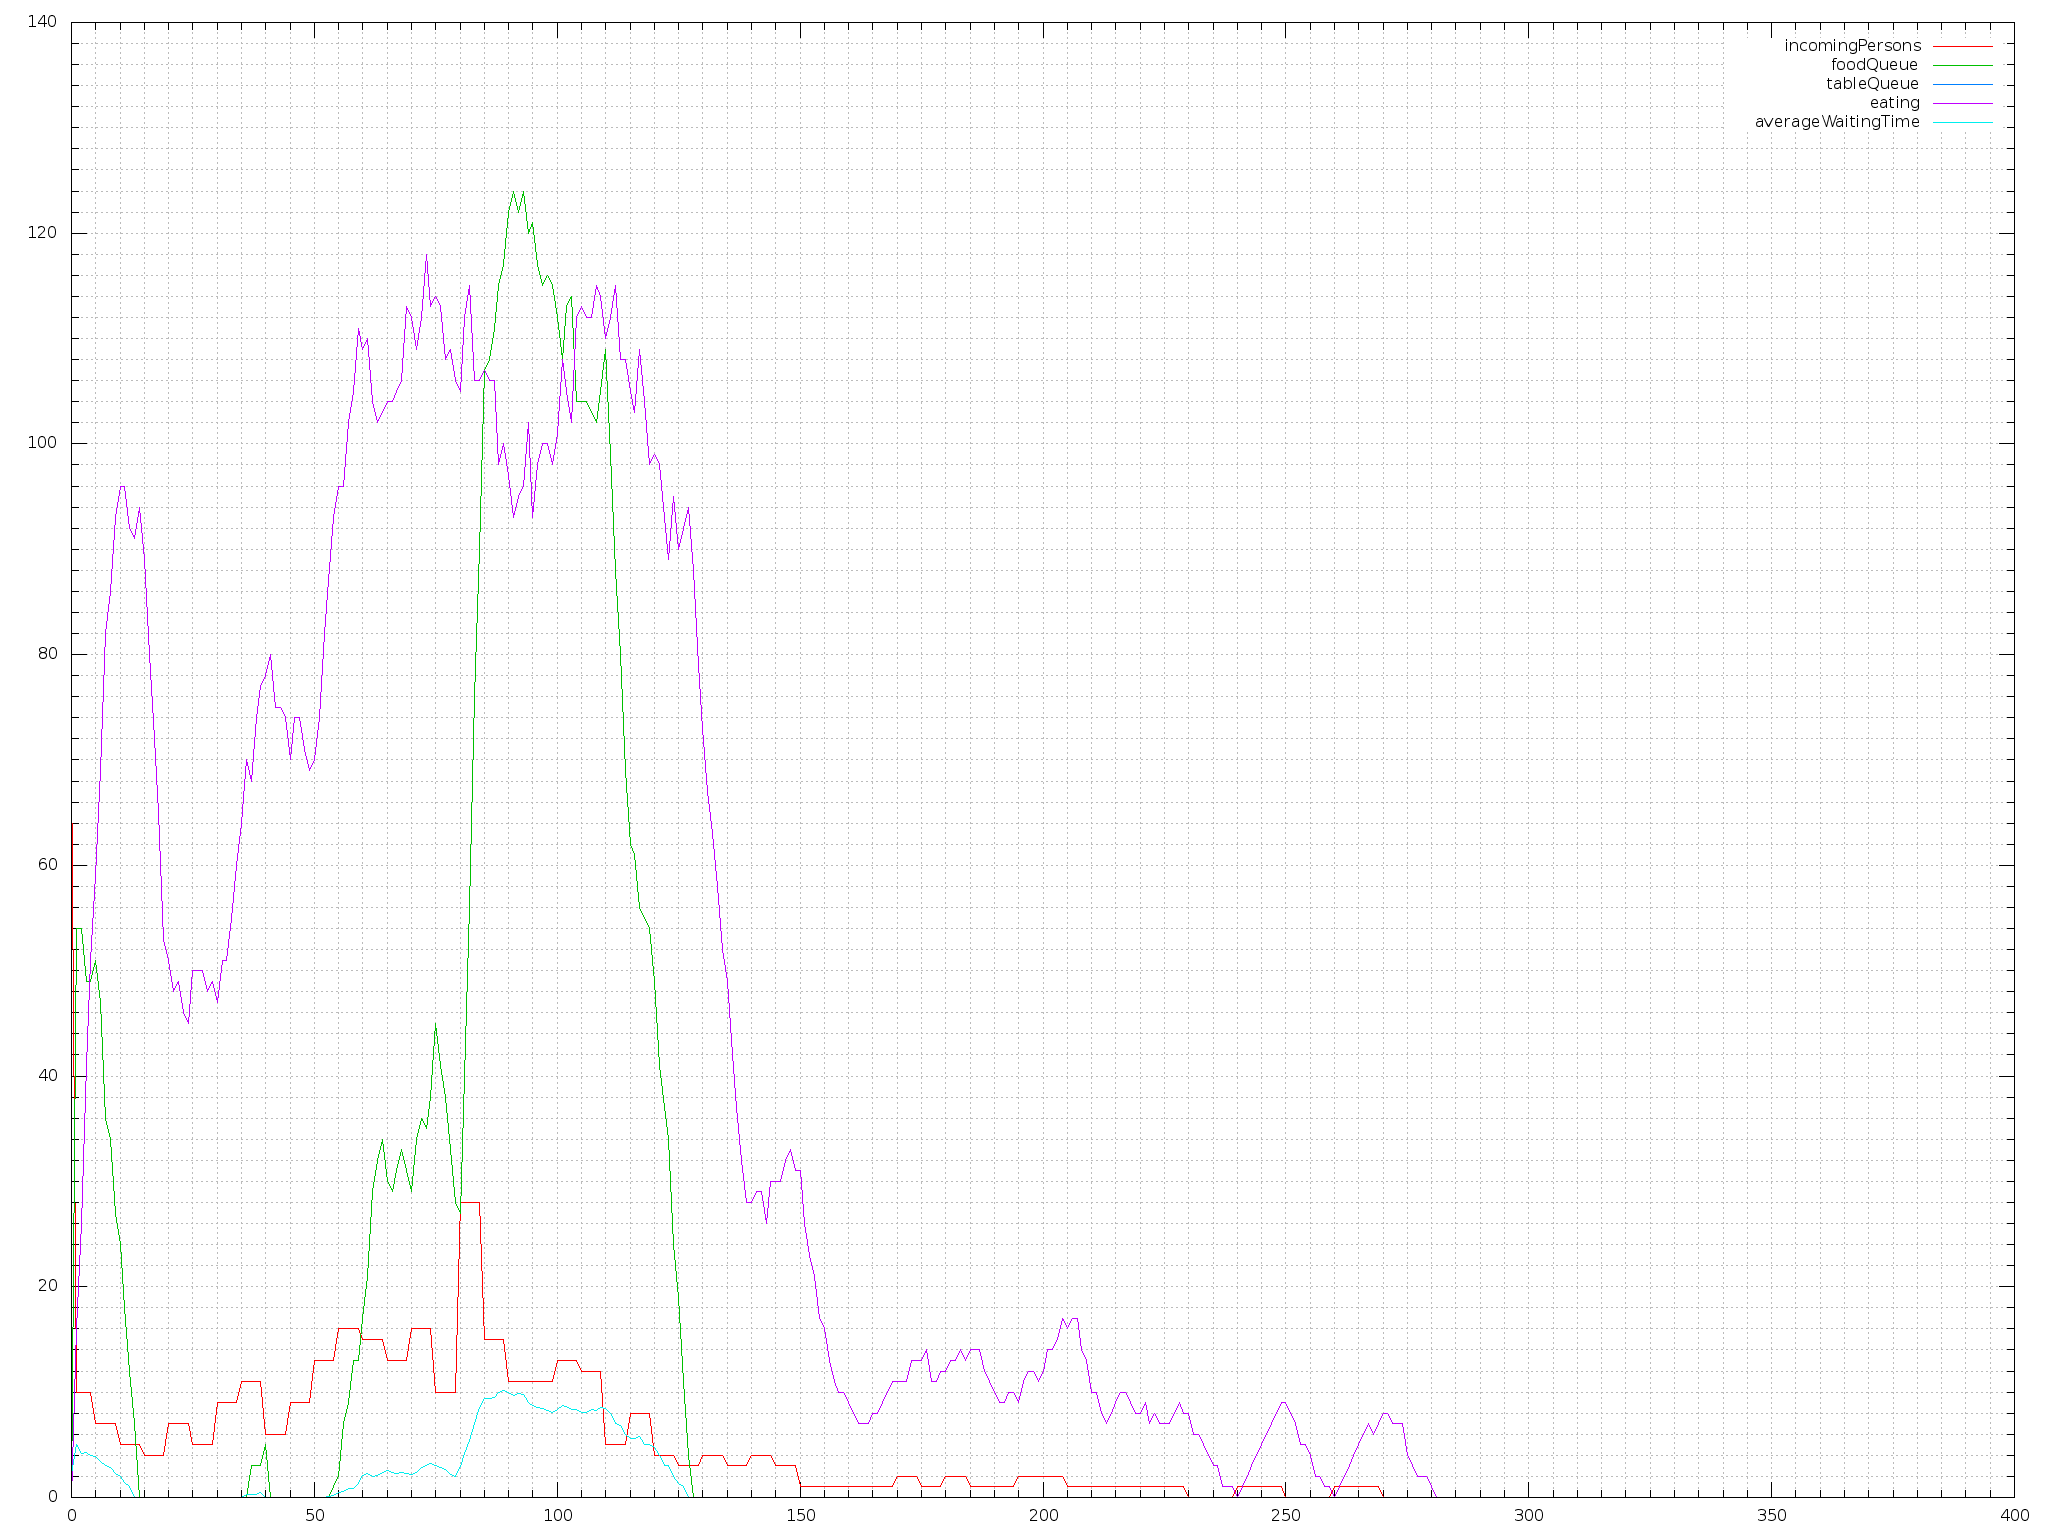
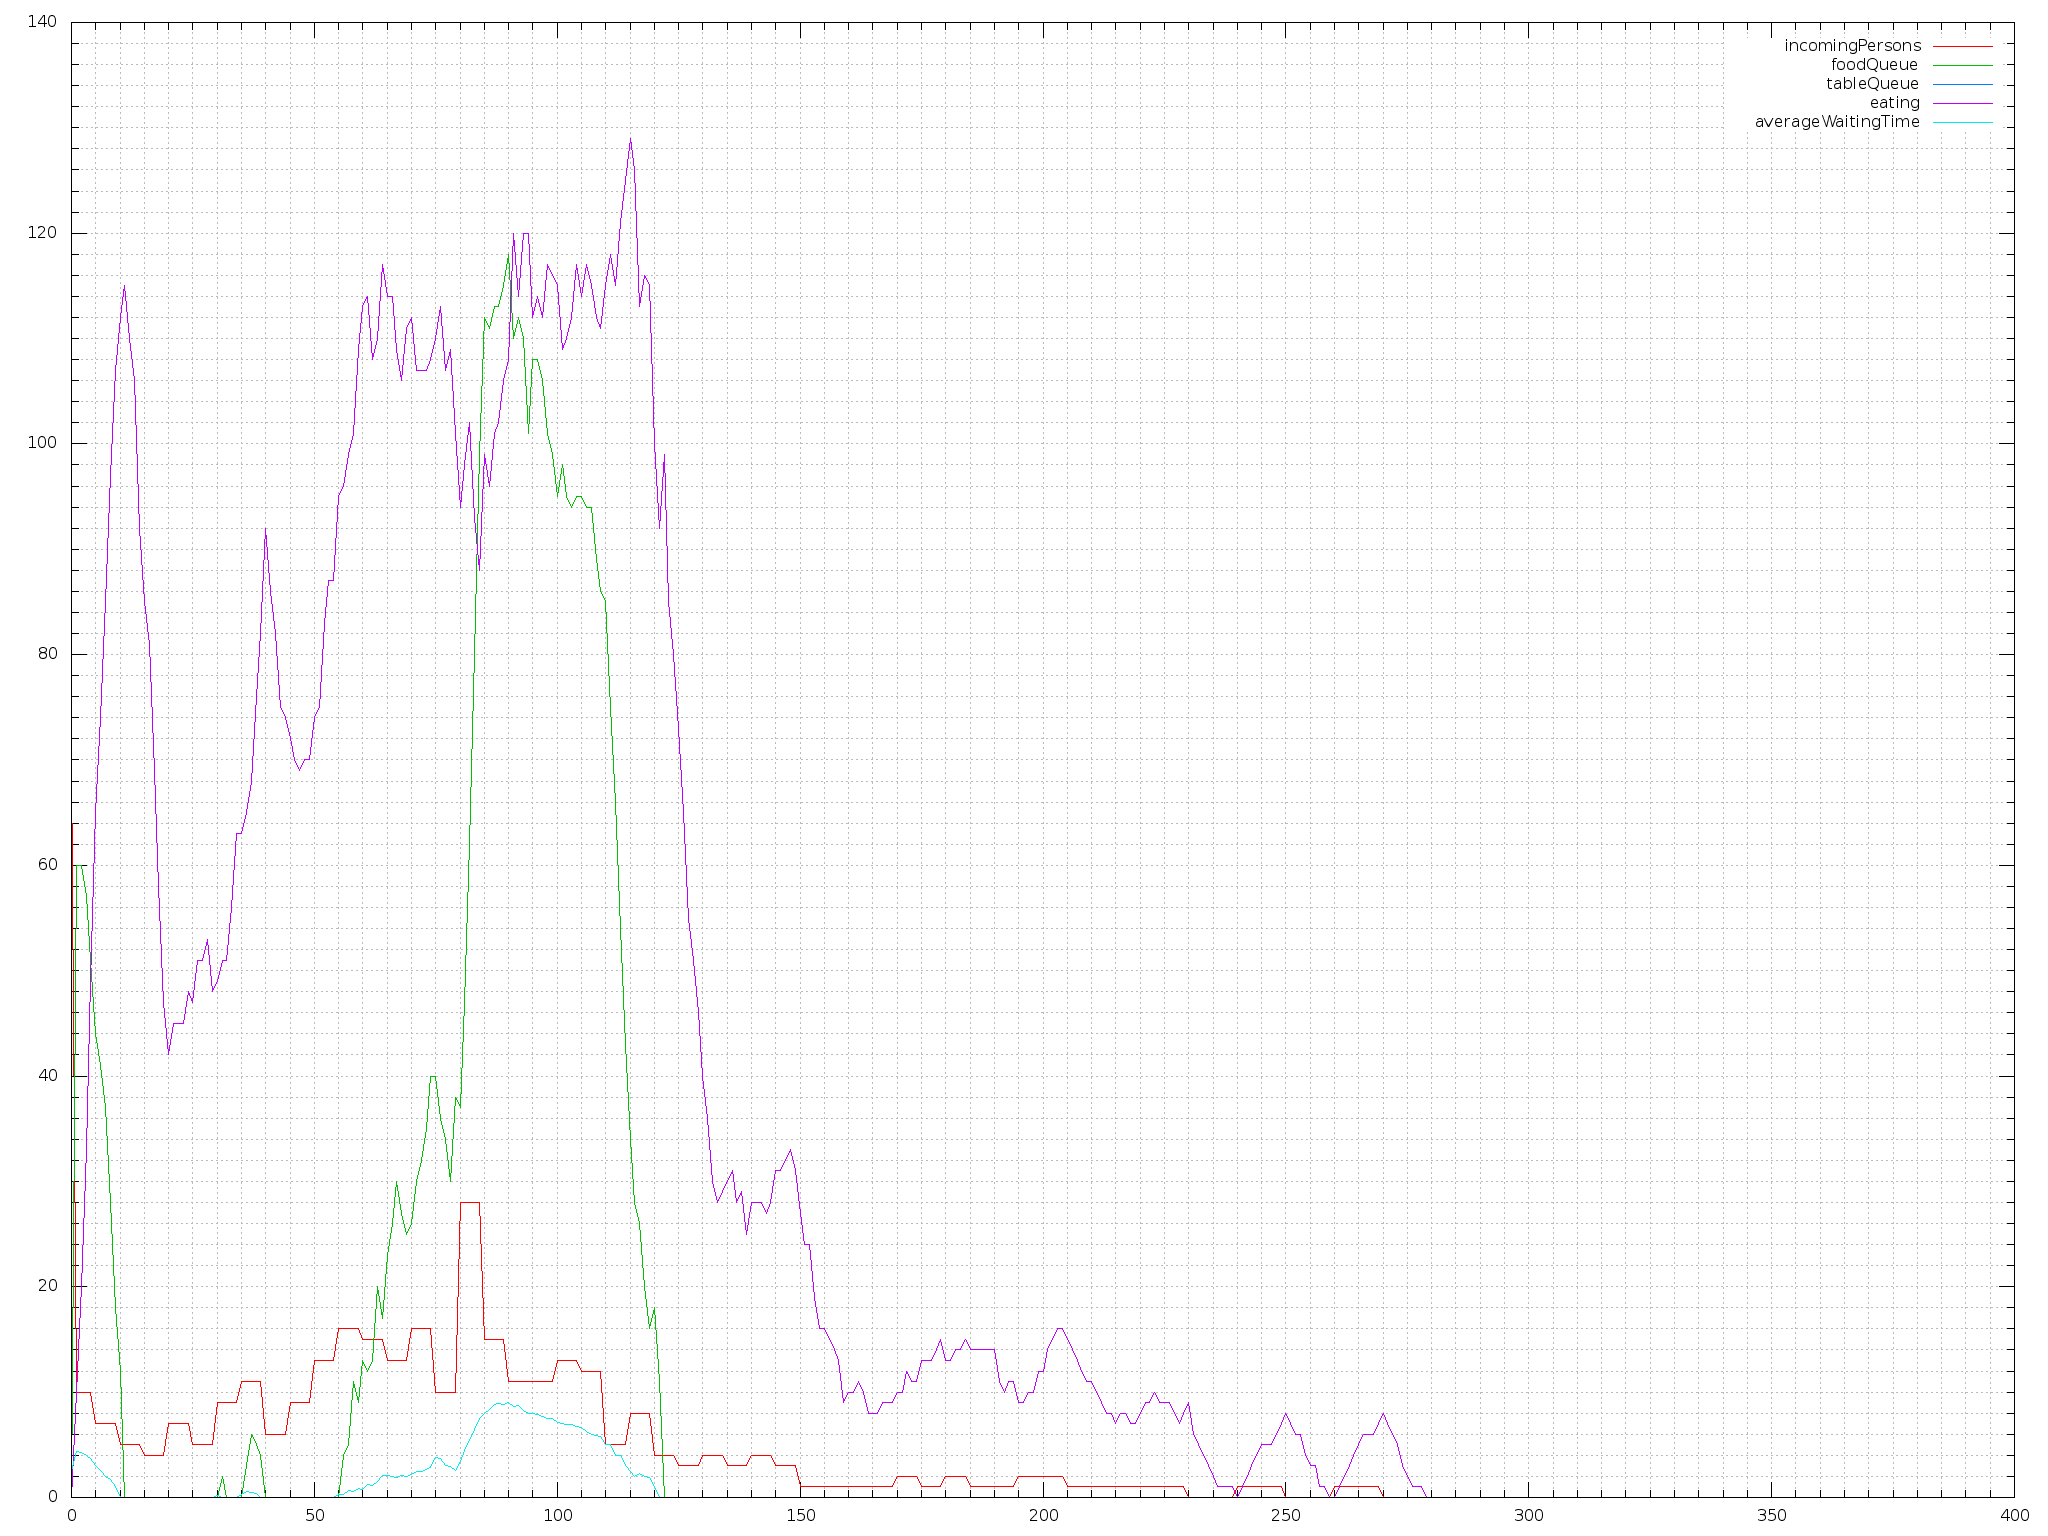
added incoming persons to graph

Changed region(s): [[0.25, 0.1875, 0.3125, 0.2188], [0.2188, 0.2812, 0.25, 0.3125], [0.2188, 0.2188, 0.25, 0.25]]

diff --git a/Canteen/src/canteen/graph/ChartFrame.java b/Canteen/src/canteen/graph/ChartFrame.java
@@ -15,16 +15,19 @@ import org.jfree.data.xy.XYSeries;
 import org.jfree.data.xy.XYSeriesCollection;
 import org.jfree.ui.ApplicationFrame;
 
+import canteen.others.IncomingPersons;
 import canteen.result.Result;
 
 public class ChartFrame extends ApplicationFrame {
 	ArrayList<Result> results;
 	ArrayList<Double> waitingTimes;
+	IncomingPersons incomingPersons;
 
-	public ChartFrame(final String title, ArrayList<Result> results, ArrayList<Double> waitingTimes) throws Exception {
+	public ChartFrame(final String title, ArrayList<Result> results, ArrayList<Double> waitingTimes, IncomingPersons incomingPersons) throws Exception {
 		super(title);
 		this.results = results;
 		this.waitingTimes = waitingTimes;
+		this.incomingPersons = incomingPersons;
 
 		if (results.size() != waitingTimes.size()) {
 			throw new Exception("Results and WaitingTimes have got different sizes");
@@ -39,33 +42,42 @@ public class ChartFrame extends ApplicationFrame {
 	}
 
 	private XYDataset createDataset() {
+		// incoming persons
+		XYSeries incomingPerson = new XYSeries("incomingPersons");
+		int i = 0;
+		for (Result result : results) {
+			incomingPerson.add((double) result.getTime(), (double) incomingPersons.getNumberOfPersons(i));
+			i++;
+		}
+
 		// foodQueue
 		XYSeries foodQueue = new XYSeries("foodQueue");
 		for (Result result : results) {
-			foodQueue.add((double)result.getTime(), (double)result.getNumberOfPeopleInFoodQueue());
+			foodQueue.add((double) result.getTime(), (double) result.getNumberOfPeopleInFoodQueue());
 		}
 
 		// tableQueue
 		XYSeries tableQueue = new XYSeries("tableQueue");
 		for (Result result : results) {
-			tableQueue.add((double)result.getTime(), (double)result.getNumberOfPeopleInTableQueue());
+			tableQueue.add((double) result.getTime(), (double) result.getNumberOfPeopleInTableQueue());
 		}
 
 		// eating
 		XYSeries eating = new XYSeries("eating");
 		for (Result result : results) {
-			eating.add((double)result.getTime(), (double)result.getNumberOfPeopleEating());
+			eating.add((double) result.getTime(), (double) result.getNumberOfPeopleEating());
 		}
 
 		// waitingTime
 		XYSeries waitingTime = new XYSeries("waitingTime");
-		int i = 0;
+		i = 0;
 		for (Result result : results) {
-			waitingTime.add((double)result.getTime(), (double)waitingTimes.get(i));
+			waitingTime.add((double) result.getTime(), (double) waitingTimes.get(i));
 			i++;
 		}
 
 		XYSeriesCollection dataset = new XYSeriesCollection();
+		dataset.addSeries(incomingPerson);
 		dataset.addSeries(foodQueue);
 		dataset.addSeries(tableQueue);
 		dataset.addSeries(eating);
@@ -74,48 +86,48 @@ public class ChartFrame extends ApplicationFrame {
 		return dataset;
 	}
 
-    private JFreeChart createChart(final XYDataset dataset) {
-        
-        // create the chart...
-        final JFreeChart chart = ChartFactory.createXYLineChart(
-            "Line Chart Demo 6",      // chart title
-            "X",                      // x axis label
-            "Y",                      // y axis label
-            dataset,                  // data
-            PlotOrientation.VERTICAL,
-            true,                     // include legend
-            true,                     // tooltips
-            false                     // urls
-        );
+	private JFreeChart createChart(final XYDataset dataset) {
 
-        // NOW DO SOME OPTIONAL CUSTOMISATION OF THE CHART...
-        chart.setBackgroundPaint(Color.white);
+		// create the chart...
+		final JFreeChart chart = ChartFactory.createXYLineChart("Line Chart Demo 6", // chart
+																						// title
+				"X", // x axis label
+				"Y", // y axis label
+				dataset, // data
+				PlotOrientation.VERTICAL, true, // include legend
+				true, // tooltips
+				false // urls
+				);
 
-//        final StandardLegend legend = (StandardLegend) chart.getLegend();
-  //      legend.setDisplaySeriesShapes(true);
-        
-        // get a reference to the plot for further customisation...
-        final XYPlot plot = chart.getXYPlot();
-        plot.setBackgroundPaint(Color.white);
-        
-        plot.setDomainGridlinePaint(Color.lightGray);
-        plot.setRangeGridlinePaint(Color.lightGray);
-        
-        final XYLineAndShapeRenderer renderer = new XYLineAndShapeRenderer();
-        //renderer.setSeriesLinesVisible(1, false);
-        renderer.setSeriesShapesVisible(0, false);
-        renderer.setSeriesShapesVisible(1, false);
-        renderer.setSeriesShapesVisible(2, false);
-        renderer.setSeriesShapesVisible(3, false);
-        plot.setRenderer(renderer);
+		// NOW DO SOME OPTIONAL CUSTOMISATION OF THE CHART...
+		chart.setBackgroundPaint(Color.white);
 
-        // change the auto tick unit selection to integer units only...
-        final NumberAxis rangeAxis = (NumberAxis) plot.getRangeAxis();
-        rangeAxis.setStandardTickUnits(NumberAxis.createIntegerTickUnits());
-        // OPTIONAL CUSTOMISATION COMPLETED.
-                
-        return chart;
-        
-    }
+		// final StandardLegend legend = (StandardLegend) chart.getLegend();
+		// legend.setDisplaySeriesShapes(true);
+
+		// get a reference to the plot for further customisation...
+		final XYPlot plot = chart.getXYPlot();
+		plot.setBackgroundPaint(Color.white);
+
+		plot.setDomainGridlinePaint(Color.lightGray);
+		plot.setRangeGridlinePaint(Color.lightGray);
+
+		final XYLineAndShapeRenderer renderer = new XYLineAndShapeRenderer();
+		// renderer.setSeriesLinesVisible(1, false);
+		renderer.setSeriesShapesVisible(0, false);
+		renderer.setSeriesShapesVisible(1, false);
+		renderer.setSeriesShapesVisible(2, false);
+		renderer.setSeriesShapesVisible(3, false);
+		renderer.setSeriesShapesVisible(4, false);
+		plot.setRenderer(renderer);
+
+		// change the auto tick unit selection to integer units only...
+		final NumberAxis rangeAxis = (NumberAxis) plot.getRangeAxis();
+		rangeAxis.setStandardTickUnits(NumberAxis.createIntegerTickUnits());
+		// OPTIONAL CUSTOMISATION COMPLETED.
+
+		return chart;
+
+	}
 
 }

diff --git a/Canteen/src/canteen/CanteenSimulation.java b/Canteen/src/canteen/CanteenSimulation.java
@@ -51,8 +51,7 @@ public class CanteenSimulation {
 				}
 
 				// add people
-				personHolder.addPerson(currentTime, incomingPersons
-						.getNumberOfPerson(currentTime, parametersManager));
+				personHolder.addPerson(currentTime, incomingPersons.getNumberOfPersons(currentTime));
 				// move from food queue to table queue
 				MoveToTableQueue.move(
 						personHolder.getPersonsInState(PersonState.foodQueue),
@@ -87,6 +86,10 @@ public class CanteenSimulation {
 			throw new Exception("Something goes wrong during the simulation.");
 		}
 
+	}
+	
+	public ArrayList<Integer> getIncomingPersons(){
+		return incomingPersons.getIncomingPersons();
 	}
 
 	public ArrayList<Result> getResults() throws Exception {

diff --git a/Canteen/src/canteen/others/IncomingPersons.java b/Canteen/src/canteen/others/IncomingPersons.java
@@ -25,20 +25,18 @@ public class IncomingPersons {
 		}
 	}
 	
+	
+	public ArrayList<Integer> getIncomingPersons(){
+		return values;
+	}
+	
+	
 	public int getSumOfAllIncomingPersons(){
 		int sum = 0;
 		for(int i : values) {
 			sum = sum + i;
 		}
 		return sum;
-	}
-
-	public int getNumberOfPerson(int time, ParametersManager pm) {
-		if (time < values.size()) {
-			return values.get(time);
-		} else {
-			return 0;
-		}
 	}
 	
 	public int getNumberOfPersons(int possitionInArray){

diff --git a/Canteen/src/canteen/Canteen.java b/Canteen/src/canteen/Canteen.java
@@ -45,7 +45,7 @@ public class Canteen {
 			ArrayList<Double> waitingTimes = simulation.getWaitingTimes();
 			
 			// show graph!!
-			final ChartFrame demo = new ChartFrame("Chart",results,waitingTimes);
+			final ChartFrame demo = new ChartFrame("Chart",results,waitingTimes,simulation.incomingPersons);
 			demo.pack();
 			RefineryUtilities.centerFrameOnScreen(demo);
 			demo.setVisible(true);
